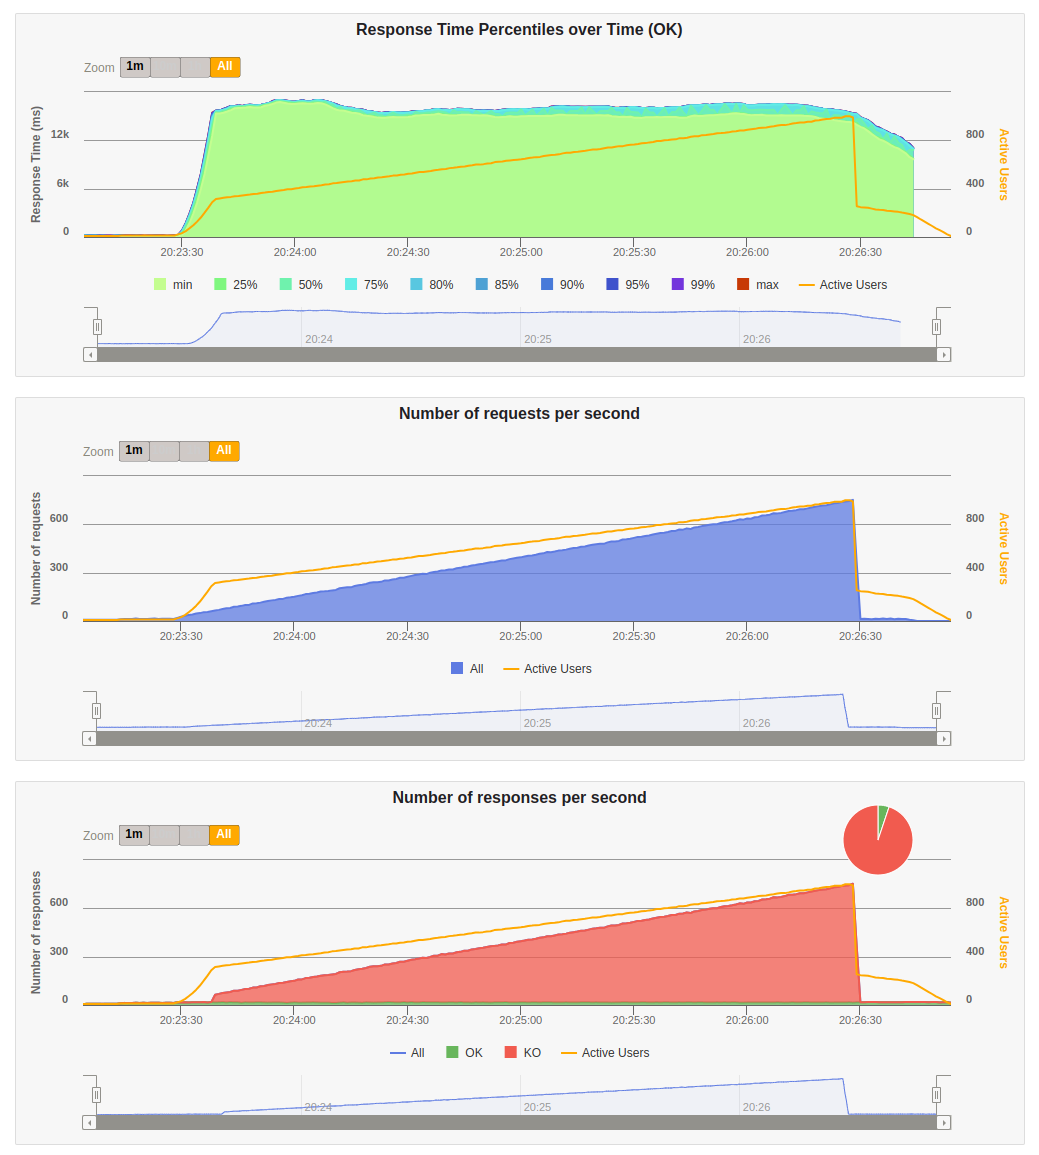
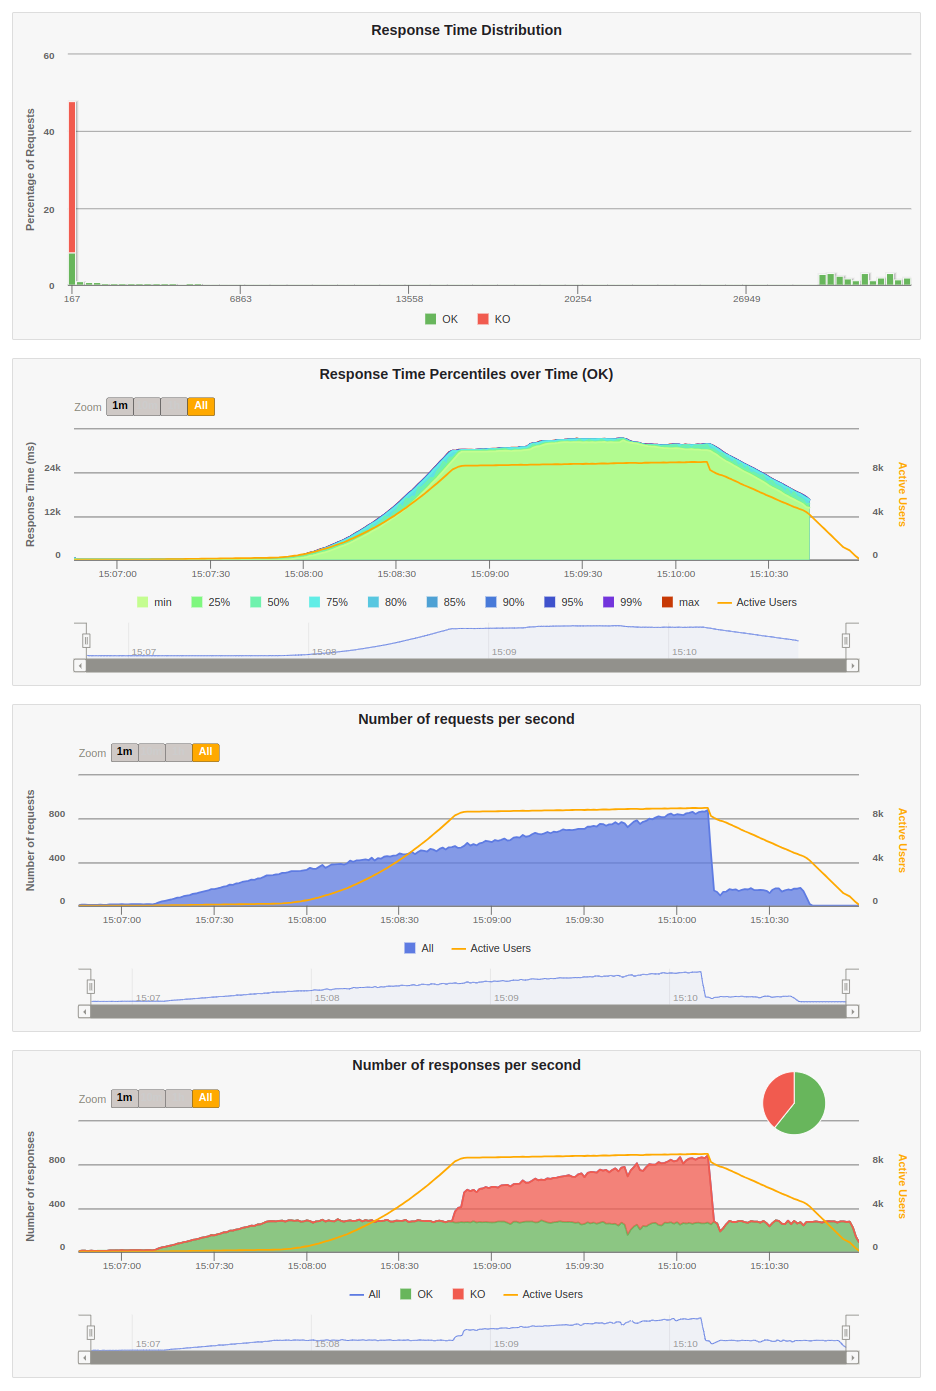
add laptop results

diff --git a/README.md b/README.md
@@ -103,32 +103,34 @@ A contagem de pessoas é: 33707
 ##### Resultado do gatling console
 
 ```
-Simulation RinhaBackendSimulation completed in 231 seconds
+Simulation RinhaBackendSimulation completed in 253 seconds
 Parsing log file(s)...
 Parsing log file(s) done
 Generating reports...
 
 ================================================================================
 ---- Global Information --------------------------------------------------------
-> request count                                      70740 (OK=3651   KO=67089 )
-> min response time                                      0 (OK=45     KO=0     )
-> max response time                                  17018 (OK=17018  KO=7     )
-> mean response time                                   688 (OK=13321  KO=0     )
-> std deviation                                       3160 (OK=5019   KO=0     )
-> response time 50th percentile                          0 (OK=15193  KO=0     )
-> response time 75th percentile                          1 (OK=16048  KO=1     )
-> response time 95th percentile                         82 (OK=16625  KO=1     )
-> response time 99th percentile                      16164 (OK=16919  KO=1     )
-> mean requests/sec                                306.234 (OK=15.805 KO=290.429)
+> request count                                      94168 (OK=57216  KO=36952 )
+> min response time                                      0 (OK=2      KO=0     )
+> max response time                                  33477 (OK=33477  KO=160   )
+> mean response time                                 11373 (OK=18686  KO=50    )
+> std deviation                                      13477 (OK=12752  KO=34    )
+> response time 50th percentile                       1344 (OK=22005  KO=47    )
+> response time 75th percentile                      27803 (OK=30801  KO=74    )
+> response time 95th percentile                      32540 (OK=32976  KO=113   )
+> response time 99th percentile                      33196 (OK=33255  KO=132   )
+> mean requests/sec                                 370.74 (OK=225.26 KO=145.48)
 ---- Response Time Distribution ------------------------------------------------
-> t < 800 ms                                           319 (  0%)
-> 800 ms <= t < 1200 ms                                 15 (  0%)
-> t >= 1200 ms                                        3317 (  5%)
-> failed                                             67089 ( 95%)
+> t < 800 ms                                          9195 ( 10%)
+> 800 ms <= t < 1200 ms                                718 (  1%)
+> t >= 1200 ms                                       47303 ( 50%)
+> failed                                             36952 ( 39%)
 ---- Errors --------------------------------------------------------------------
-> j.i.IOException: Premature close                                67089 (100.0%)
+> status.find.in(201,422,400), but actually found 502             24493 (66.28%)
+> status.find.in([200, 209], 304), found 502                      10774 (29.16%)
+> status.find.is(400), but actually found 502                      1685 ( 4.56%)
 ================================================================================
-A contagem de pessoas é: 2325
+A contagem de pessoas é: 25753
 ```
 
 ##### Recusos do docker durante a parte mais pesada do teste
